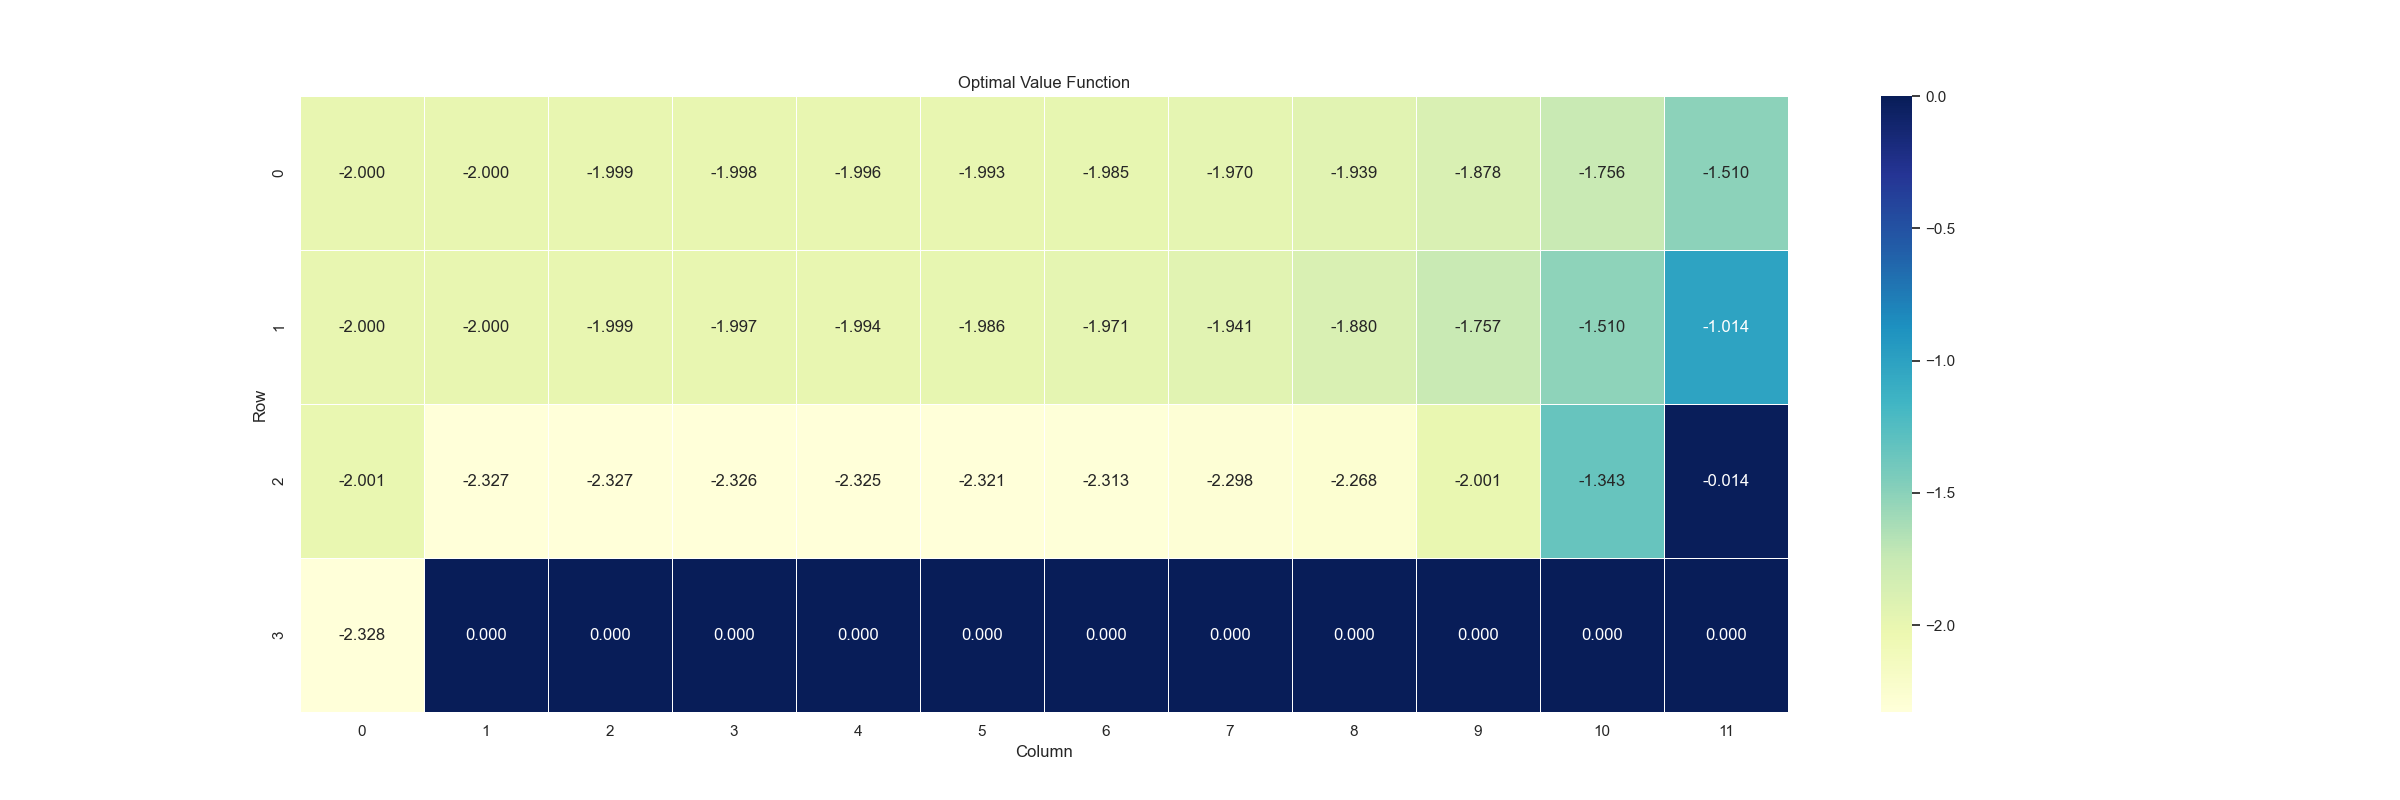
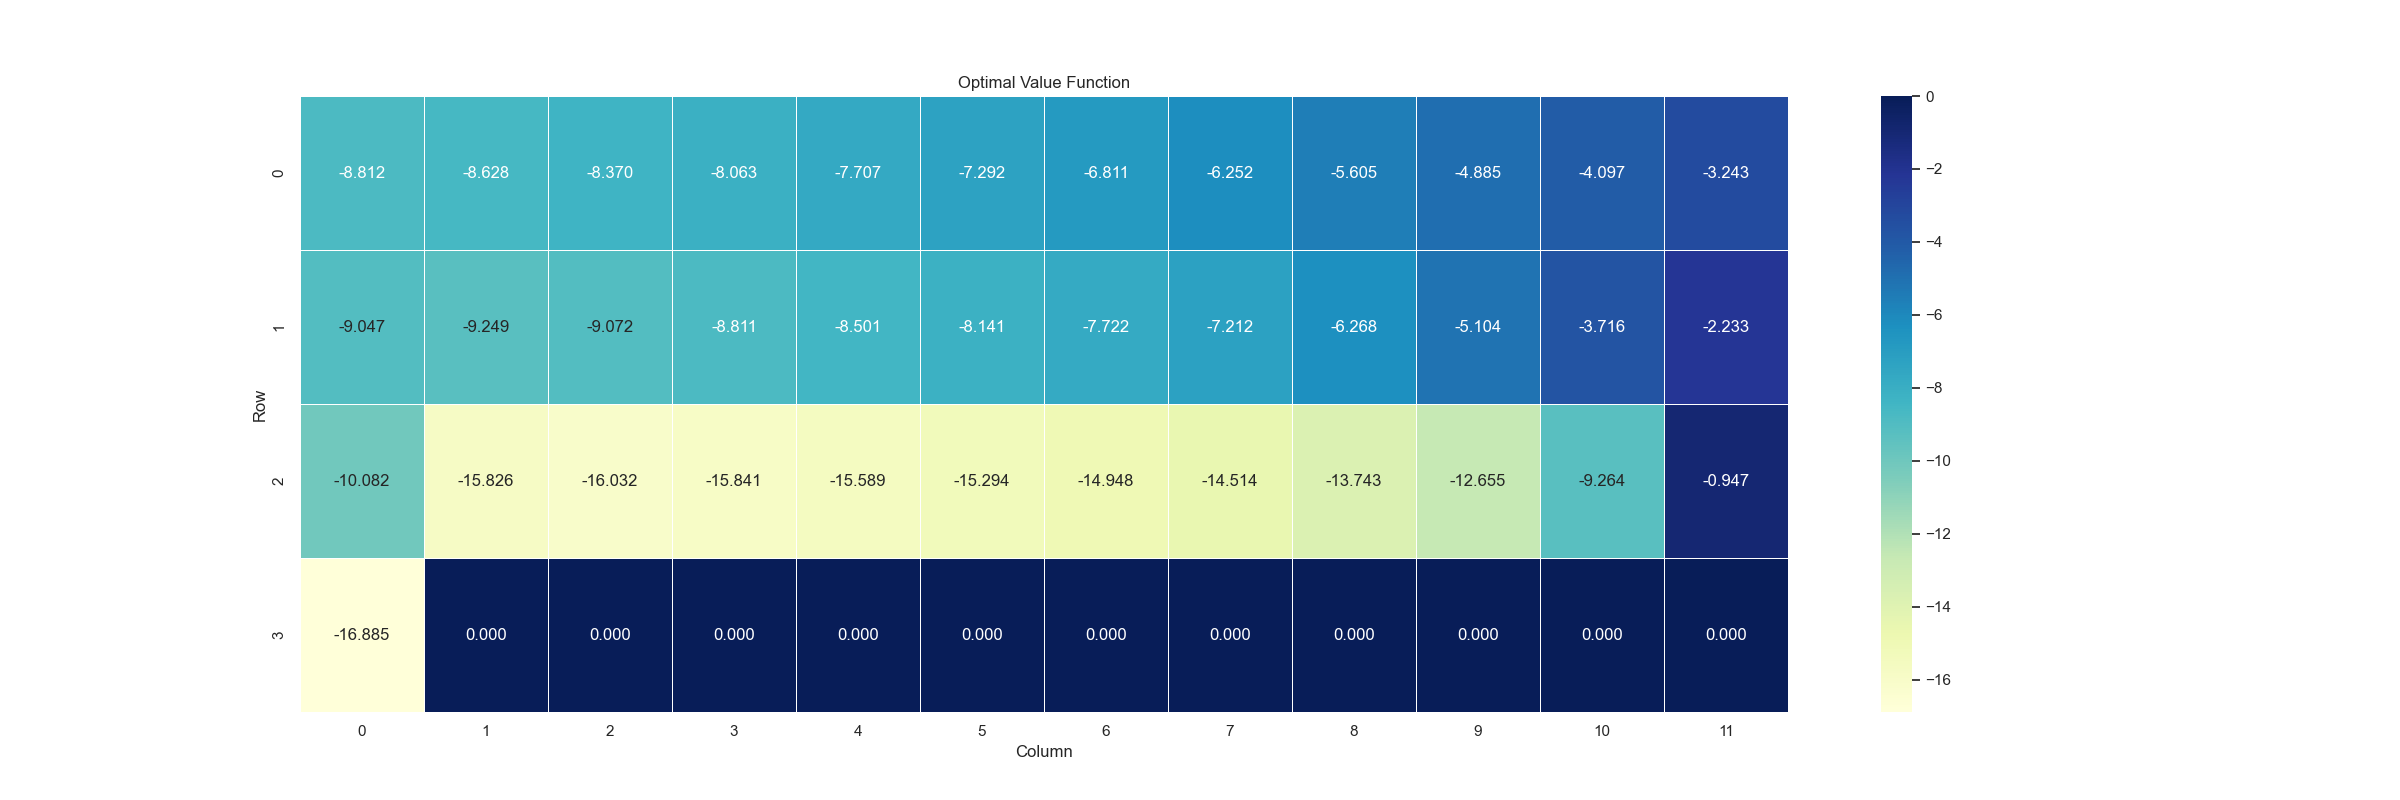
Monte-Carlo done...

Changed region(s): [[0.125, 0.0938, 0.75, 0.7188], [0.25, 0.5938, 0.3125, 0.625], [0.125, 0.7812, 0.1562, 0.8125]]

diff --git a/DynamicProgramming/cliff_monte_carlo.py b/DynamicProgramming/cliff_monte_carlo.py
@@ -33,14 +33,11 @@ def isValid(r, c):
     return True
 
 def neighbours(s):
-    r, c = state2Coord(s)
-    n = [(r, c), (r+1, c), (r-1, c), (r, c+1), (r, c-1)]
-    n = list(filter(lambda x: (isValid(*x) and not isForbidden(coord2State(*x))), n))
-    ##  Add 36 if we are beside forbidden states...
-    n += [(3, 0)] if r == 2 and 1 <= c <= 10 else []
-    return [coord2State(*x) for x in n]
+    n = list(set([nextState(s, a) for a in range(4)]))
+    n = list(filter(lambda x: (isValid(*state2Coord(x))), n))
+    return n
 
-def _nextState(s, a):
+def nextState(s, a):
     r, c = state2Coord(s)
     r_prime, c_prime = r, c
     if a == 0:  ##  up...
@@ -55,24 +52,19 @@ def _nextState(s, a):
         r_prime, c_prime = r, c
     return coord2State(r_prime, c_prime)
 
-def nextState(s, a):
-    s_prime_logical = _nextState(s, a)
-    s_prime = 36 if isForbidden(s_prime_logical) else s_prime_logical
-    return s_prime, s_prime_logical
-
 def nextReward(s, a):
-    _, s_prime = nextState(s, a)
+    s_prime = nextState(s, a)
     return -100 if isForbidden(s_prime) else (0 if s_prime == 47 else -1)
 
 def p(s_prime, r, s, a):
-    s_next, _ = nextState(s, a)
+    s_next = nextState(s, a)
     r_next = nextReward(s, a)
     return 1 if (s_prime, r) == (s_next, r_next) else 0
 
 
-def pi(a, s):
-    probs = np.ones((38, 4)) * 0.25
+def pi(a, s, probs=np.ones((48, 4)) * 0.25):    
     return probs[s][a]
+
 
 def visualize(v):
     v_vis = np.zeros((4, 12), float)
@@ -92,7 +84,7 @@ def isTerminated(s, r):
     return True if r == 0 or r == -100 else False
 
 class MHAgent:
-    def __init__(self, gamma=1):
+    def __init__(self, gamma=1, eps=0.5):
         self.hist_s = []
         self.hist_a = []
         self.hist_r = []
@@ -102,6 +94,8 @@ class MHAgent:
         self.v = [0 for _ in range(48)]
         self.N = [0 for _ in range(48)]
         self.gamma = gamma
+        self.probs = np.ones((48, 4)) * 0.25
+        self.eps = eps
         print('Agent created...')
 
     def updateBuffer(self, s, a, s_prime, r, done):
@@ -132,19 +126,39 @@ class MHAgent:
             if self.N[s]:
                 self.v[s] = self.g[s] / self.N[s]
         return self.v
-
-
-mha = MHAgent(gamma=0.99)
     
+    def improvePolicy(self):
+        for s in range(37):
+            s_primes_a = [(nextState(s, a), a) for a in range(4)]
+            s_primes_a = list(filter(lambda x: not isForbidden(x[0]), s_primes_a))
+            vs = list(map(lambda x: (v[x[0]], x[1]), s_primes_a))
+            v_max = max([v for (v, a) in vs])
+            a_max = [a for (v, a) in vs if v == v_max]
+            p_max = (1 - self.eps) / len(a_max)
+            p_nonmax = self.eps / (4 - len(a_max)) if 4 - len(a_max) else 0
+            ps = list(map(lambda a: p_max if a in a_max else p_nonmax, range(4)))
+            self.probs[s] = np.array(ps)
+        self.g = [0 for _ in range(48)]
+        self.N = [0 for _ in range(48)]
+        self.clearBuffer()
+        return self.probs
+    
+    def act(self, s):
+        return np.random.choice(4, p=self.probs[s])
+    
+
+
+mha = MHAgent(gamma=0.99, eps=0.3) 
 # env = gym.make('CliffWalking-v0', render_mode='human')
 env = gym.make('CliffWalking-v0')
 observation, info = env.reset()
-
 action_dict = {0: 'up', 1: 'right', 2: 'down', 3: 'left'}
 
 t = 0
+probs = np.ones((48, 4)) * 0.25
+
 while True:
-    action = np.random.randint(4)
+    action = mha.act(observation)
     old_observation = observation
     observation, reward, terminated, truncated, info = env.step(action)
     reward = 0 if observation == 47 else reward
@@ -153,15 +167,18 @@ while True:
         observation, info = env.reset()    
     if t and not t % 1000:
         v = mha.updateV()
-        print(f'Timestep: {t}, N[35] = {mha.N[35]}')
-        if mha.N[35] >= 500:
-            break
+        print(f'Timestep: {t}')
+        if not t % 100000:
+            old_probs = probs.copy()
+            probs = mha.improvePolicy()
+            visualize(mha.v)
+            if (old_probs == probs).all():
+                print('No further improvement...')
+                break
     t += 1
 
 
 v = mha.updateV()
 visualize(v)
-
 breakpoint()
-
 env.close()

diff --git a/DynamicProgramming/cliff_dynamic_programming.py b/DynamicProgramming/cliff_dynamic_programming.py
@@ -92,7 +92,7 @@ def improvePolicy(v, probs, eps=0.5):
         v_max = max([v for (v, a) in vs])
         a_max = [a for (v, a) in vs if v == v_max]
         p_max = (1 - eps) / len(a_max)
-        p_nonmax = eps / (4 - len(a_max))
+        p_nonmax = eps / (4 - len(a_max)) if 4 - len(a_max) else 0
         ps = list(map(lambda a: p_max if a in a_max else p_nonmax, range(4)))
         probs[s] = np.array(ps)
     return probs
@@ -114,8 +114,8 @@ def visualize(v):
 
 ##  What if we set gamma to 0.5?! Why?!
 probs = np.ones((48, 4)) * 0.25
-gamma = 0.5
-eps = 0.01
+gamma = 0.9
+eps = 0.2
 i = 0
 while True:
     i -=- 1
